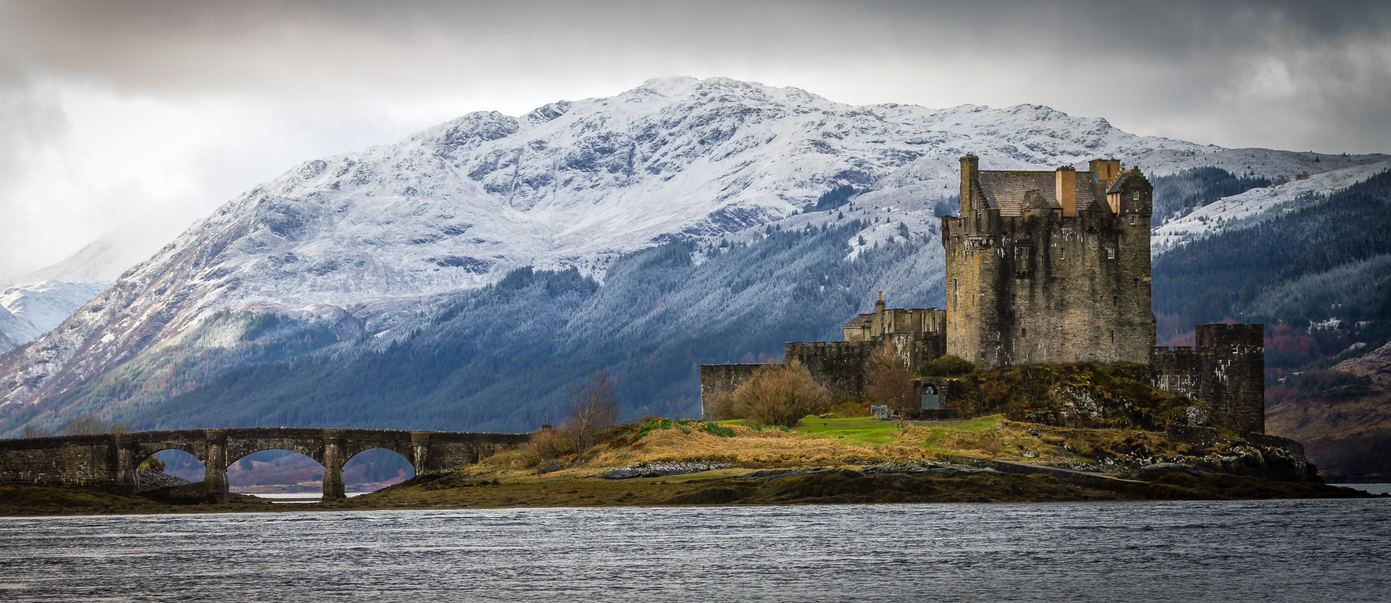
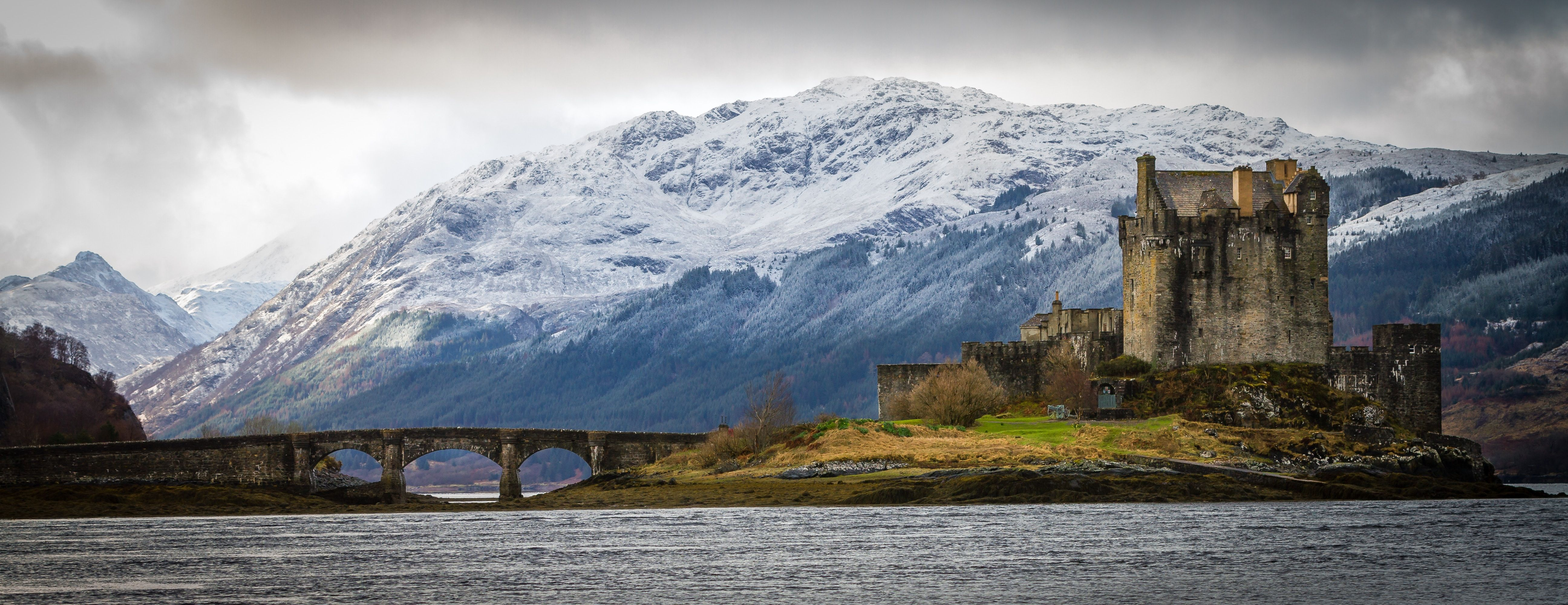
Castle hero fix

diff --git a/index_m.html b/index_m.html
@@ -29,7 +29,7 @@
 	<br>
 	<img class="img-responsive" src="band.jpg" alt="me" style="width:400px;height:300px;">
 	<img class="img-responsive" src="dance.jpg" alt="me" style="width:400px; height:300px;">
-	<img class="img-responsive" src="funeral_uilleann.jpg" alt="me" style="width:400px;height:300px;">
+	<img class="img-responsive" src="funeral_uilleann.jpg" alt="me" style="width:400px;height:300px;vertical-align:center;">
 	<img class="img-responsive" src="jacket.jpg" alt="me" style="width:300px;height:400px;">
 	<img class="img-responsive" src="prize.jpg" alt="me" style="width:300px;height:400px;">
 	<img class="img-responsive" src="f.jpg" alt="me" style="width:550px;height:400px;">

diff --git a/style.css b/style.css
@@ -104,7 +104,7 @@ li a:hover {
 }
 
 .hero22 {
-    background: url('castle.jpg');
+    background: url('castle_m.jpg');
     background-size: cover;
     height: 600px;
     box-shadow: 0px 3px 8px #2a2a2a;
